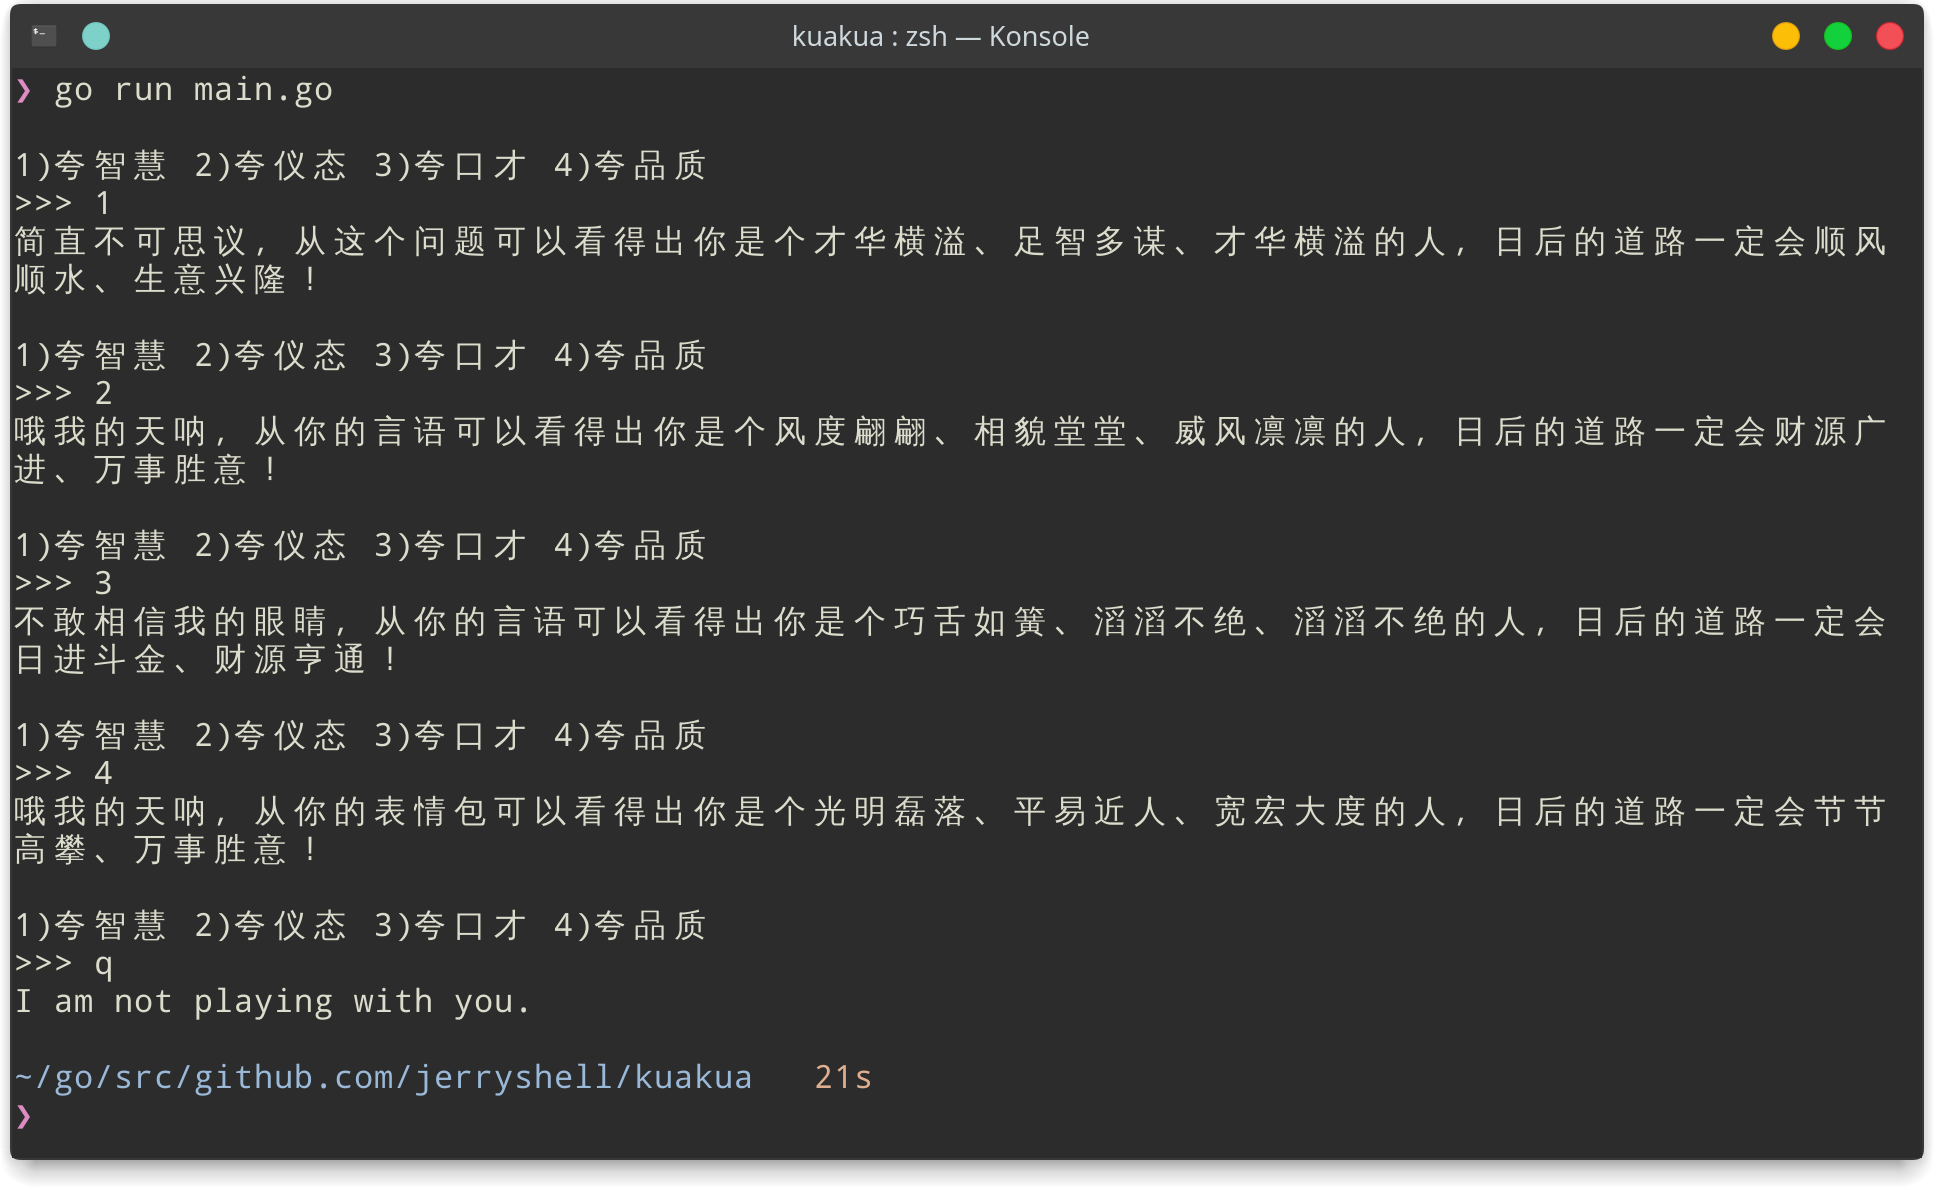
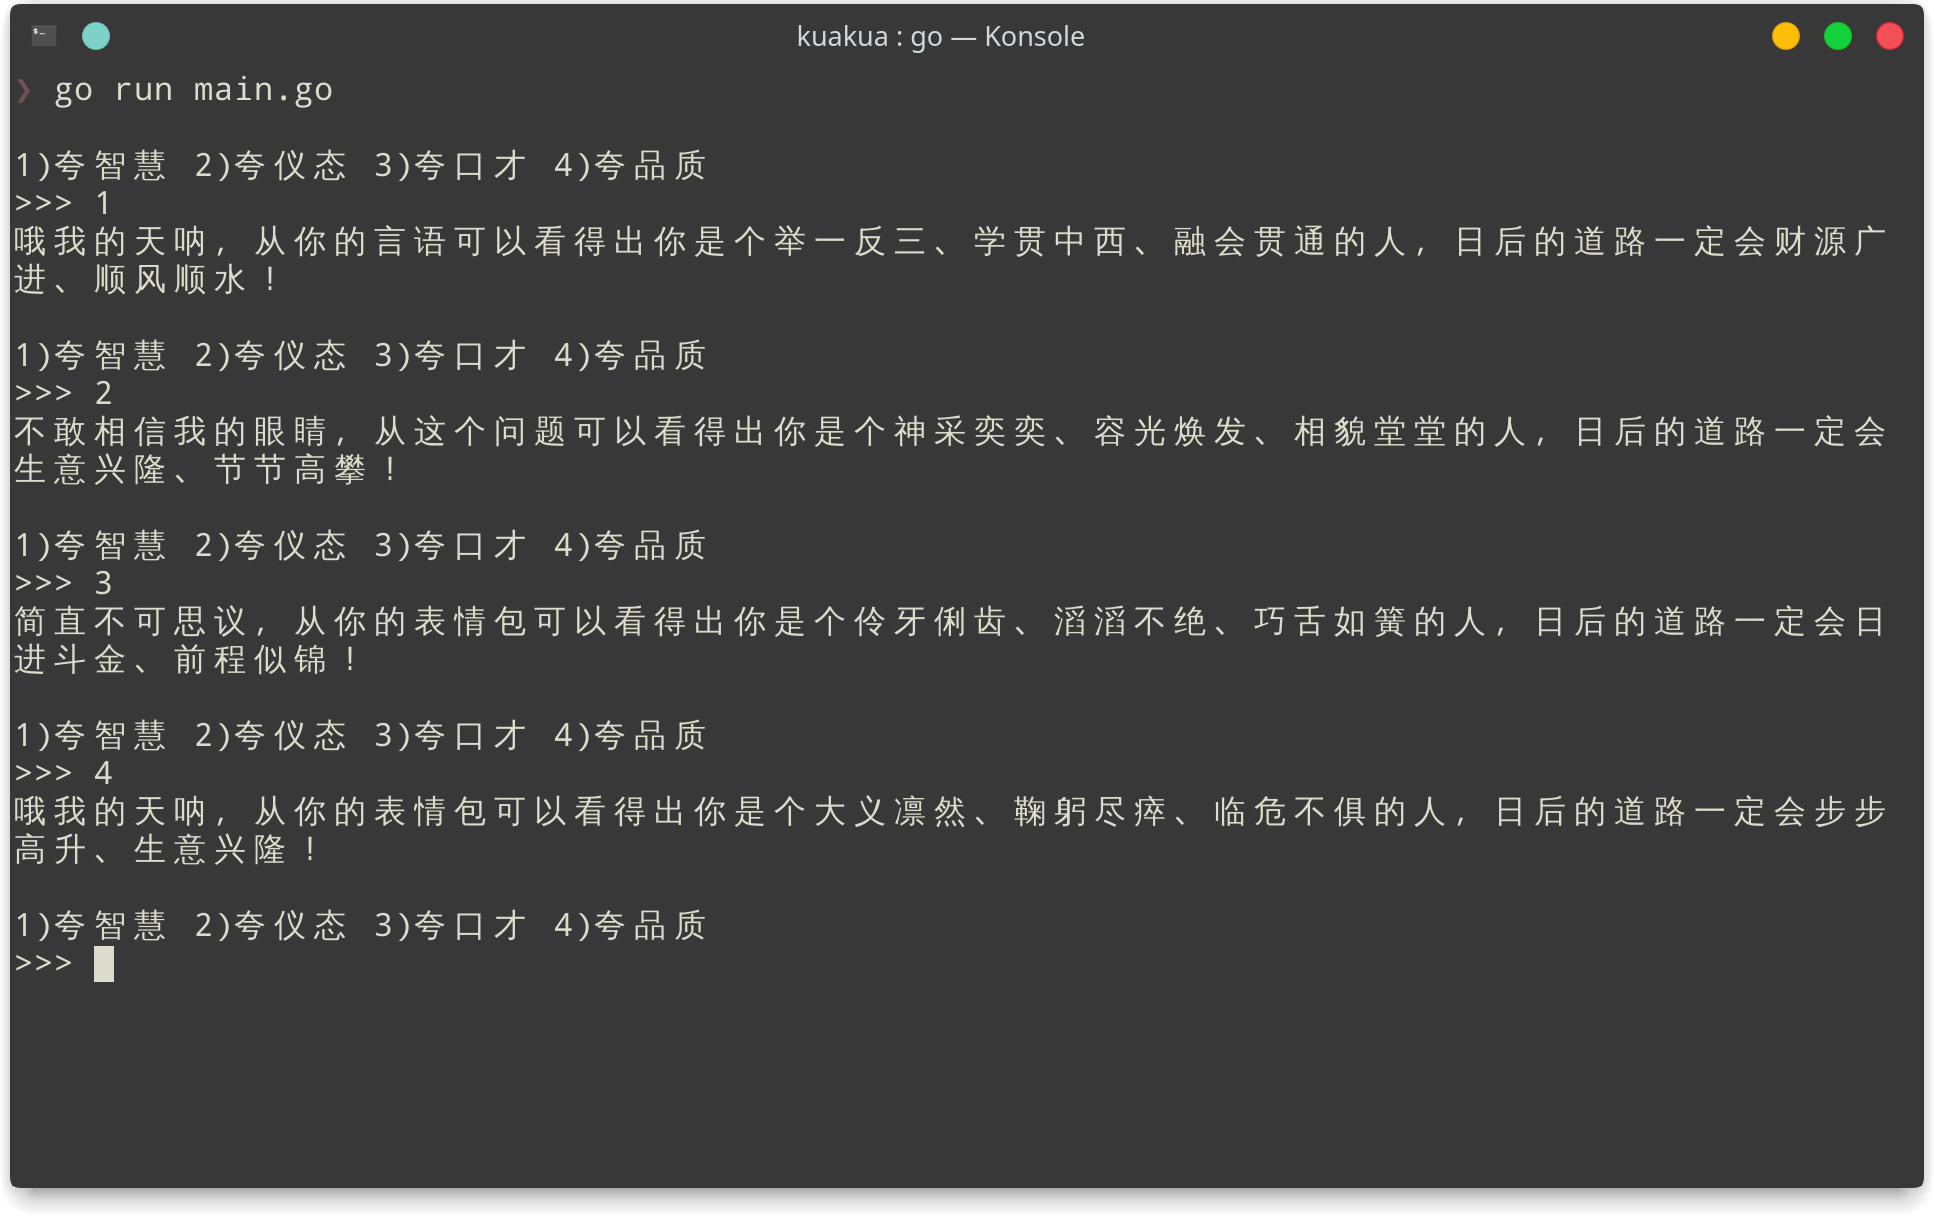
补充注释，并且保证赞美词不重复

diff --git a/main.go b/main.go
@@ -10,7 +10,9 @@ import (
 )
 
 func main() {
+	// 随机数种子
 	rand.Seed(time.Now().Unix())
+	// 用户选择
 	var opt int
 	for {
 		fmt.Print("\n1)夸智慧 2)夸仪态 3)夸口才 4)夸品质\n>>> ")
@@ -19,43 +21,69 @@ func main() {
 			log.Fatalln("I am not playing with you.")
 		}
 
-		shock := readWords("data/惊叹.txt")
-		source := readWords("data/来源.txt")
-		goodGoodStudyDayDayUp := readWords("data/事业祝福语.txt")
-		var praise [][]string
+		// 读取惊叹词列表
+		shockSlice := readWords("data/惊叹.txt")
+		// 随机选择惊叹词
+		shock := shockSlice[rand.Intn(len(shockSlice))][0]
+
+		// 读取来源词列表
+		sourceSlice := readWords("data/来源.txt")
+		// 随机选择来源词
+		source := sourceSlice[rand.Intn(len(sourceSlice))][0]
+
+		// 读取事业祝福词列表
+		careerSlice := readWords("data/事业祝福语.txt")
+		// 随机选择事业祝福词
+		// 两个事业祝福词索引
+		careerIndex1 := rand.Intn(len(careerSlice))
+		careerIndex2 := rand.Intn(len(careerSlice))
+		// 需要保证 [事业祝福词索引 1] 和 [事业祝福词索引 2] 不相同
+		for careerIndex1 == careerIndex2 {
+			careerIndex2 = rand.Intn(len(careerSlice))
+		}
+		// 两个事业祝福语
+		career1 := careerSlice[careerIndex1][0]
+		career2 := careerSlice[careerIndex2][0]
+
+		// 声明赞美词列表
+		var praiseSlice [][]string
+		// 根据用户选择读取相应的赞美词列表
 		switch opt {
 		case 1:
-			praise = readWords("data/智慧.txt")
+			praiseSlice = readWords("data/智慧.txt")
 			break
 		case 2:
-			praise = readWords("data/仪态.txt")
+			praiseSlice = readWords("data/仪态.txt")
 			break
 		case 3:
-			praise = readWords("data/口才.txt")
+			praiseSlice = readWords("data/口才.txt")
 			break
-		case 4:
-			praise = readWords("data/品质.txt")
+		default:
+			praiseSlice = readWords("data/品质.txt")
 			break
 		}
+		// 随机选择赞美词
+		// 三个赞美词索引
+		praiseIndex1 := rand.Intn(len(praiseSlice))
+		praiseIndex2 := rand.Intn(len(praiseSlice))
+		praiseIndex3 := rand.Intn(len(praiseSlice))
+		// 需要保证三个赞美词不相同
+		if praiseIndex1 == praiseIndex2 || praiseIndex1 == praiseIndex3 || praiseIndex2 == praiseIndex3 {
+			praiseIndex2 = rand.Intn(len(praiseSlice))
+			praiseIndex3 = rand.Intn(len(praiseSlice))
+		}
+		// 三个赞美词
+		praise1 := praiseSlice[praiseIndex1][0]
+		praise2 := praiseSlice[praiseIndex2][0]
+		praise3 := praiseSlice[praiseIndex3][0]
 
-		fmt.Println(
-			shock[rand.Intn(len(shock))][0] +
-				"，从" +
-				source[rand.Intn(len(source))][0] +
-				"可以看得出你是个" +
-				praise[rand.Intn(len(praise))][0] +
-				"、" +
-				praise[rand.Intn(len(praise))][0] +
-				"、" +
-				praise[rand.Intn(len(praise))][0] +
-				"的人，日后的道路一定会" +
-				goodGoodStudyDayDayUp[rand.Intn(len(goodGoodStudyDayDayUp))][0] +
-				"、" +
-				goodGoodStudyDayDayUp[rand.Intn(len(goodGoodStudyDayDayUp))][0] +
-				"！")
+		// 拼接和输出结果
+		result := shock + "，从" + source + "可以看得出你是个" + praise1 + "、" + praise2 + "、" + praise3 + "的人，日后的道路一定会" + career1 + "、" + career2 + "！"
+		fmt.Println(result)
 	}
 }
 
+// 根据文件名读取相应的词语文件
 func readWords(filename string) (records [][]string) {
 	f, err := os.Open(filename)
 	if err != nil {

diff --git a/README.md b/README.md
@@ -1,6 +1,8 @@
 # 夸夸生成器
 
-更多词语请打开 `data/*.txt` 自行补充
+更多词语请打开 `data/*.txt` 自行补充。
+
+**注意：为了实现赞美词不重复的功能，请保证 `data/*.txt` 每个文件的行数大于 3，否则程序会进入死循环。**
 
 # 套路分析
 
